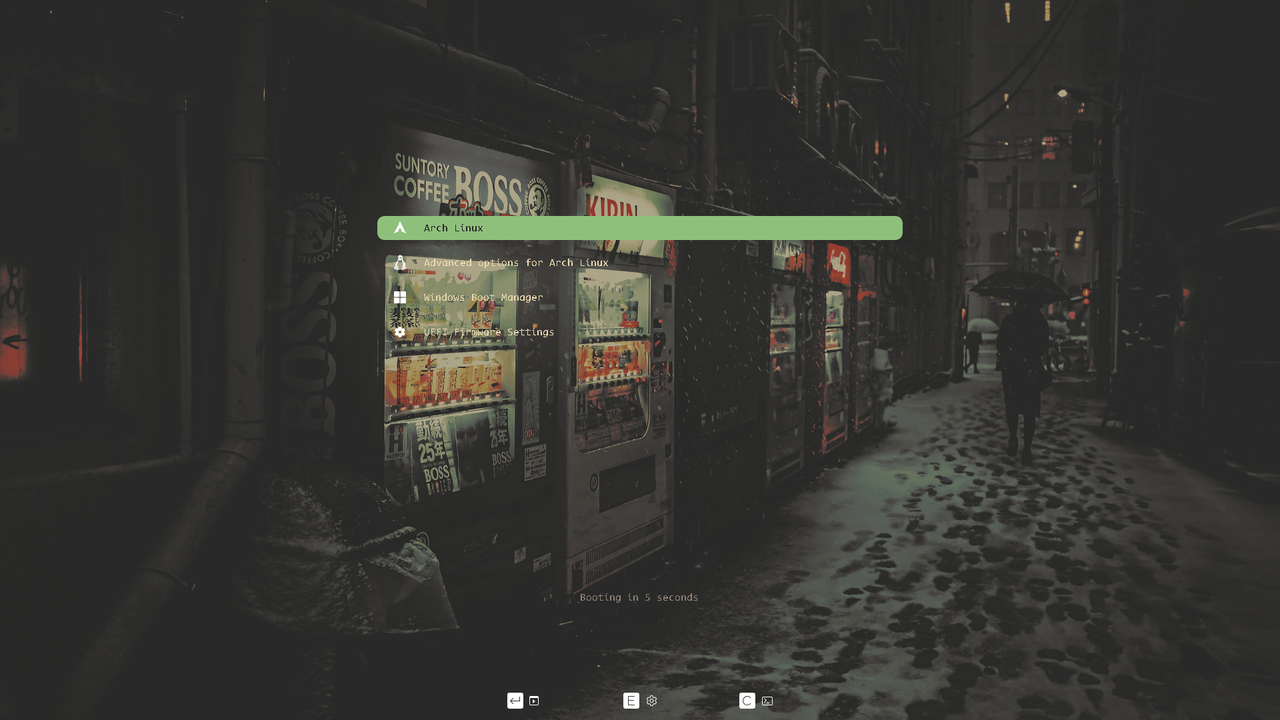
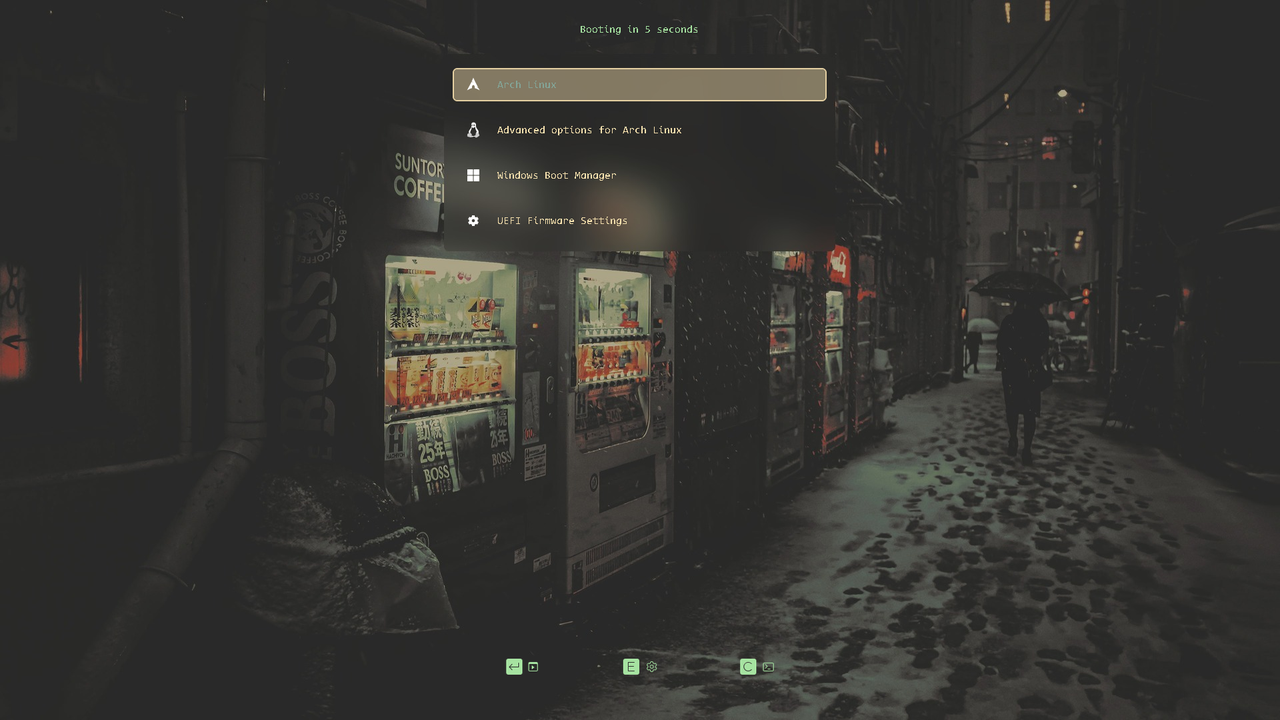
Add new PNG assets for Windows theme
- Added item_n.png, item_ne.png, item_nw.png, item_s.png, item_se.png, item_sw.png for various states in the Windows theme.
- Introduced select_n.png, select_ne.png, select_nw.png, select_s.png, select_se.png, select_sw.png for selection states.
- All images are newly created and are essential for enhancing the visual elements of the theme.

diff --git a/grub-custom.py b/grub-custom.py
@@ -10,7 +10,7 @@
                                     icon_size, entries
   grub-custom.py layout             drag/resize the boot menu, info bar and countdown label
   grub-custom.py list               list themes (name<TAB>bundled|variant|builder)
-  grub-custom.py edit THEME RESULT  edit a theme's layout; saves as THEME-mineN, writes its name to RESULT
+  grub-custom.py edit THEME RESULT  edit a theme's layout; saves into THEME, writes its name to RESULT
   grub-custom.py delete NAME        delete one of your themes (never bundled ones)
   grub-custom.py preview [THEME]    render previews/<theme>.png (all themes if omitted)
   grub-custom.py build              convert the wallpaper and generate themes/<name>
@@ -474,7 +474,8 @@ def build(cfg):
     mx, my, mw, mh = cfg["layout"]["menu"]
     count = entry_count(cfg)
     # the card hugs the entries; the layout height is only the maximum
-    list_h = min(mh, count * (item_h + spacing) + 2 * pad_sel + 16)
+    # GRUB's row stride is item_height + 2*item_padding + item_spacing; the height must hold every row or the list scrolls
+    list_h = count * (item_h + 16 + spacing) - spacing
     draw_card(img, (mx - pad, my - pad, mw + 2 * pad, list_h + 2 * pad), cfg["card_style"], radius, cfg["card_color"])
 
     shutil.rmtree(out, ignore_errors=True)
@@ -637,43 +638,29 @@ def write_layout(theme_txt, lay):
     open(theme_txt, "w").write(BLOCK.sub(patch, text))
 
 
-def next_variant_name(base):
-    base = re.sub(r"-mine\d+$", "", base)
-    n = 1
-    while os.path.exists(os.path.join(themes_root(), f"{base}-mine{n}")):
-        n += 1
-    return f"{base}-mine{n}"
-
-
 def edit_theme_layout(theme, result_file):
     src = os.path.join(themes_root(), theme)
     if not os.path.isfile(os.path.join(src, "theme.txt")):
         sys.exit(f"unknown theme '{theme}'")
     info = marker(theme)
     if info and info["kind"] == "builder":
-        sys.exit("this theme was made by the wallpaper builder: edit its layout from Create a theme > Layout editor")
-    res = (info or {}).get("resolution", "1920x1080")
+        sys.exit("wallpaper-built themes keep their layout in their build settings")
+    res = (info or {}).get("resolution") or (info or {}).get("cfg", {}).get("resolution", "1920x1080")
     W, H = parse_res(res)
     lay = parse_layout(os.path.join(src, "theme.txt"), W, H)
     if not lay:
         sys.exit("no boot menu found in theme.txt")
-    # editing an existing variant happens in place; bundled themes fork a new -mineN copy
-    target = theme if info else next_variant_name(theme)
-    base = (info or {}).get("base", theme)
+    target = theme
     cfg = {"resolution": res, "layout": lay}
 
     def save_variant(c):
         dest = os.path.join(themes_root(), target)
-        if not os.path.isdir(dest):
-            shutil.copytree(src, dest)
-            json.dump({"kind": "variant", "base": base, "resolution": res}, open(os.path.join(dest, MARKER), "w"))
-            write_item_pads(dest)
-            tx = os.path.join(dest, "theme.txt")
-            text = open(tx).read()
-            open(tx, "w").write(BLOCK.sub(
-                lambda m: f"+ {m.group(1)} {{{set_prop(m.group(2), 'item_pixmap_style', 'item_*.png')}}}" if m.group(1) == "boot_menu" else m.group(0),
-                text))
+        if not info:
+            adopt_theme(theme)
         write_layout(os.path.join(dest, "theme.txt"), c["layout"])
+        st = (marker(theme) or {}).get("style", {})
+        if st.get("card_style", "invisible") != "invisible":
+            bake_card(dest, st["card_style"], int(st.get("radius", 9)), st.get("card_color", "#101820"))
         preview(target)
 
     if curses.wrapper(editor, cfg, save_variant):
@@ -714,6 +701,47 @@ def style_load(theme):
     save(cfg)
 
 
+def adopt_theme(theme):
+    """Make a plain theme editable in place: mark it and give its menu item pads."""
+    dest = os.path.join(themes_root(), theme)
+    if not os.path.isfile(os.path.join(dest, "theme.txt")):
+        sys.exit(f"unknown theme '{theme}'")
+    if marker(theme):
+        return
+    json.dump({"kind": "variant", "base": theme, "resolution": "1920x1080"}, open(os.path.join(dest, MARKER), "w"))
+    write_item_pads(dest)
+    tx = os.path.join(dest, "theme.txt")
+    text = open(tx).read()
+    open(tx, "w").write(BLOCK.sub(
+        lambda m: f"+ {m.group(1)} {{{set_prop(m.group(2), 'item_pixmap_style', 'item_*.png')}}}" if m.group(1) == "boot_menu" else m.group(0),
+        text))
+
+
+def bake_card(d, style, radius, color):
+    """Same frosted/solid card as the wallpaper builder: render it into background.jpg from the untouched
+    original (kept as background.orig.jpg) behind the boot menu as laid out in theme.txt."""
+    bg, orig = os.path.join(d, "background.jpg"), os.path.join(d, "background.orig.jpg")
+    if not os.path.isfile(orig):
+        shutil.copy(bg, orig)
+    img = Image.open(orig).convert("RGB")
+    W, H = img.size
+    tx = os.path.join(d, "theme.txt")
+    lay = parse_layout(tx, W, H).get("menu")
+    if lay and style != "invisible":
+        text = open(tx).read()
+        props = {}
+        for m in BLOCK.finditer(text):
+            if m.group(1) == "boot_menu":
+                props = dict(re.findall(r"^\s*(\w+)\s*=\s*(.+?)\s*$", m.group(2), re.M))
+        mx, my, mw, mh = lay
+        item_h = (expr_px(props.get("item_height", "40"), H) + 2 * expr_px(props.get("item_padding", "8"), W)
+                  + expr_px(props.get("item_spacing", "0"), H))
+        list_h = entry_count({}) * item_h - expr_px(props.get("item_spacing", "0"), H)
+        pad = 20
+        draw_card(img, (mx - pad, my - pad, mw + 2 * pad, list_h + 2 * pad), style, radius, color)
+    img.save(bg, "JPEG", quality=92)
+
+
 def set_prop(body, key, value):
     if re.search(rf"^\s*{key}\s*=", body, re.M):
         return re.sub(rf"^(\s*{key}\s*=).*$", lambda m: f'{m.group(1)} "{value}"', body, flags=re.M)
@@ -732,33 +760,59 @@ def restyle(theme, cfg):
     def patch(m):
         kind, body = m.group(1), m.group(2)
         if kind == "boot_menu":
+            bp = dict(re.findall(r"^\s*(\w+)\s*=\s*(.+?)\s*$", body, re.M))
+            sp = expr_px(bp.get("item_spacing", "0"), 1080)
+            stride = expr_px(bp.get("item_height", "40"), 1080) + 2 * expr_px(bp.get("item_padding", "8"), 1920) + sp
+            body = re.sub(r"^(\s*height\s*=).*$", lambda mm: f"{mm.group(1)} {entry_count(cfg) * stride - sp}", body, flags=re.M)
             body = set_prop(body, "item_color", cfg["text"])
             body = set_prop(body, "selected_item_color", cfg["selected_text"])
             body = set_prop(body, "selected_item_pixmap_style", "select_*.png")
             body = set_prop(body, "item_pixmap_style", "item_*.png")
-            if cfg["card_style"] == "invisible":
-                body = re.sub(r"^\s*menu_pixmap_style\s*=.*\n", "", body, flags=re.M)
-            else:
-                body = set_prop(body, "menu_pixmap_style", "menu_*.png")
+            body = re.sub(r"^\s*menu_pixmap_style\s*=.*\n", "", body, flags=re.M)
         elif kind == "label" and "__timeout__" in body:
             body = set_prop(body, "color", cfg["timeout_color"])
             body = set_prop(body, "text", cfg["timeout_text"])
         return f"+ {kind} {{{body}}}"
 
-    new_text = BLOCK.sub(patch, open(tx).read())
-    open(tx, "w").write(new_text)
-    if cfg["highlight"] != old.get("highlight", "#ffffff") or cfg["radius"] != old.get("radius", 9) or cfg["highlight_style"] != old.get("highlight_style", "full"):
+    wp = os.path.expanduser(cfg.get("wallpaper") or "")
+    style = {k: cfg[k] for k in STYLE_KEYS}
+    if wp:
+        style["wallpaper"] = wp
+    first = "style" not in info
+    changed = [k for k in style if first or style[k] != old.get(k)]
+    text = open(tx).read()
+    new_text = BLOCK.sub(patch, text)
+    if not changed and not first and new_text == text:
+        print(f"Nothing to change in '{theme}'")
+        return
+
+    if new_text != text:
+        open(tx, "w").write(new_text)
+
+    sel_missing = not os.path.isfile(os.path.join(d, "select_c.png"))
+    if first or sel_missing or {"highlight", "highlight_style", "radius"} & set(changed):
         write_highlight(d, cfg["highlight"], int(cfg["radius"]), cfg["highlight_style"])
-    write_item_pads(d)
-    write_menu_box(d, cfg["card_color"], int(cfg["radius"]), cfg["card_style"])
-    if cfg["info_color"] != old.get("info_color", "#ffffff"):
+        write_item_pads(d)
+    if any(os.path.isfile(os.path.join(d, f"menu_{n}.png")) for n in NINE):
+        write_menu_box(d, cfg["card_color"], int(cfg["radius"]), "invisible")
+
+    new_wp = wp and "wallpaper" in changed and os.path.isfile(wp)
+    if new_wp:
+        W, H = parse_res(info.get("resolution", "1920x1080"))
+        orig = os.path.join(d, "background.orig.jpg")
+        prepare_wallpaper(wp, W, H).save(orig, "JPEG", quality=92)
+        shutil.copy(orig, os.path.join(d, "background.jpg"))
+    if new_wp or text != new_text or {"card_style", "card_color", "radius"} & set(changed) or (first and cfg["card_style"] != "invisible"):
+        bake_card(d, cfg["card_style"], int(cfg["radius"]), cfg["card_color"])
+    if "info_color" in changed and cfg["info_color"] != old.get("info_color", "#ffffff"):
         img = Image.open(os.path.join(d, "info.png")).convert("RGBA")
         tint = Image.new("RGBA", img.size, hex_rgb(cfg["info_color"]) + (255,))
         tint.putalpha(img.getchannel("A"))
         tint.save(os.path.join(d, "info.png"))
-    info["style"] = {k: cfg[k] for k in STYLE_KEYS}
+    info["style"] = style
     json.dump(info, open(os.path.join(d, MARKER), "w"))
-    preview(theme)
+    if new_wp or {"card_style", "card_color", "radius", "highlight", "highlight_style", "text", "selected_text", "timeout_color", "timeout_text", "info_color"} & set(changed) or first:
+        preview(theme)
     print(f"Restyled '{theme}'")
 
 
@@ -880,9 +934,7 @@ def preview(theme):
             if "menu_pixmap_style" in props:
                 paste_box(img, d, "menu", (x, y, w, h))
             for n, (label, icon) in enumerate(entries):
-                iy = y + n * (ih + sp)
-                if iy + ih > y + h + ih:
-                    break
+                iy = y + n * (ih + 2 * pad + sp) + pad
                 sel = n == 0
                 if sel:
                     paste_box(img, d, "select", (x, iy, w, ih))
@@ -980,6 +1032,8 @@ def main():
         list_themes()
     elif cmd == "edit":
         edit_theme_layout(args[0], args[1])
+    elif cmd == "adopt":
+        adopt_theme(args[0])
     elif cmd == "style-load":
         style_load(args[0])
     elif cmd == "restyle":
